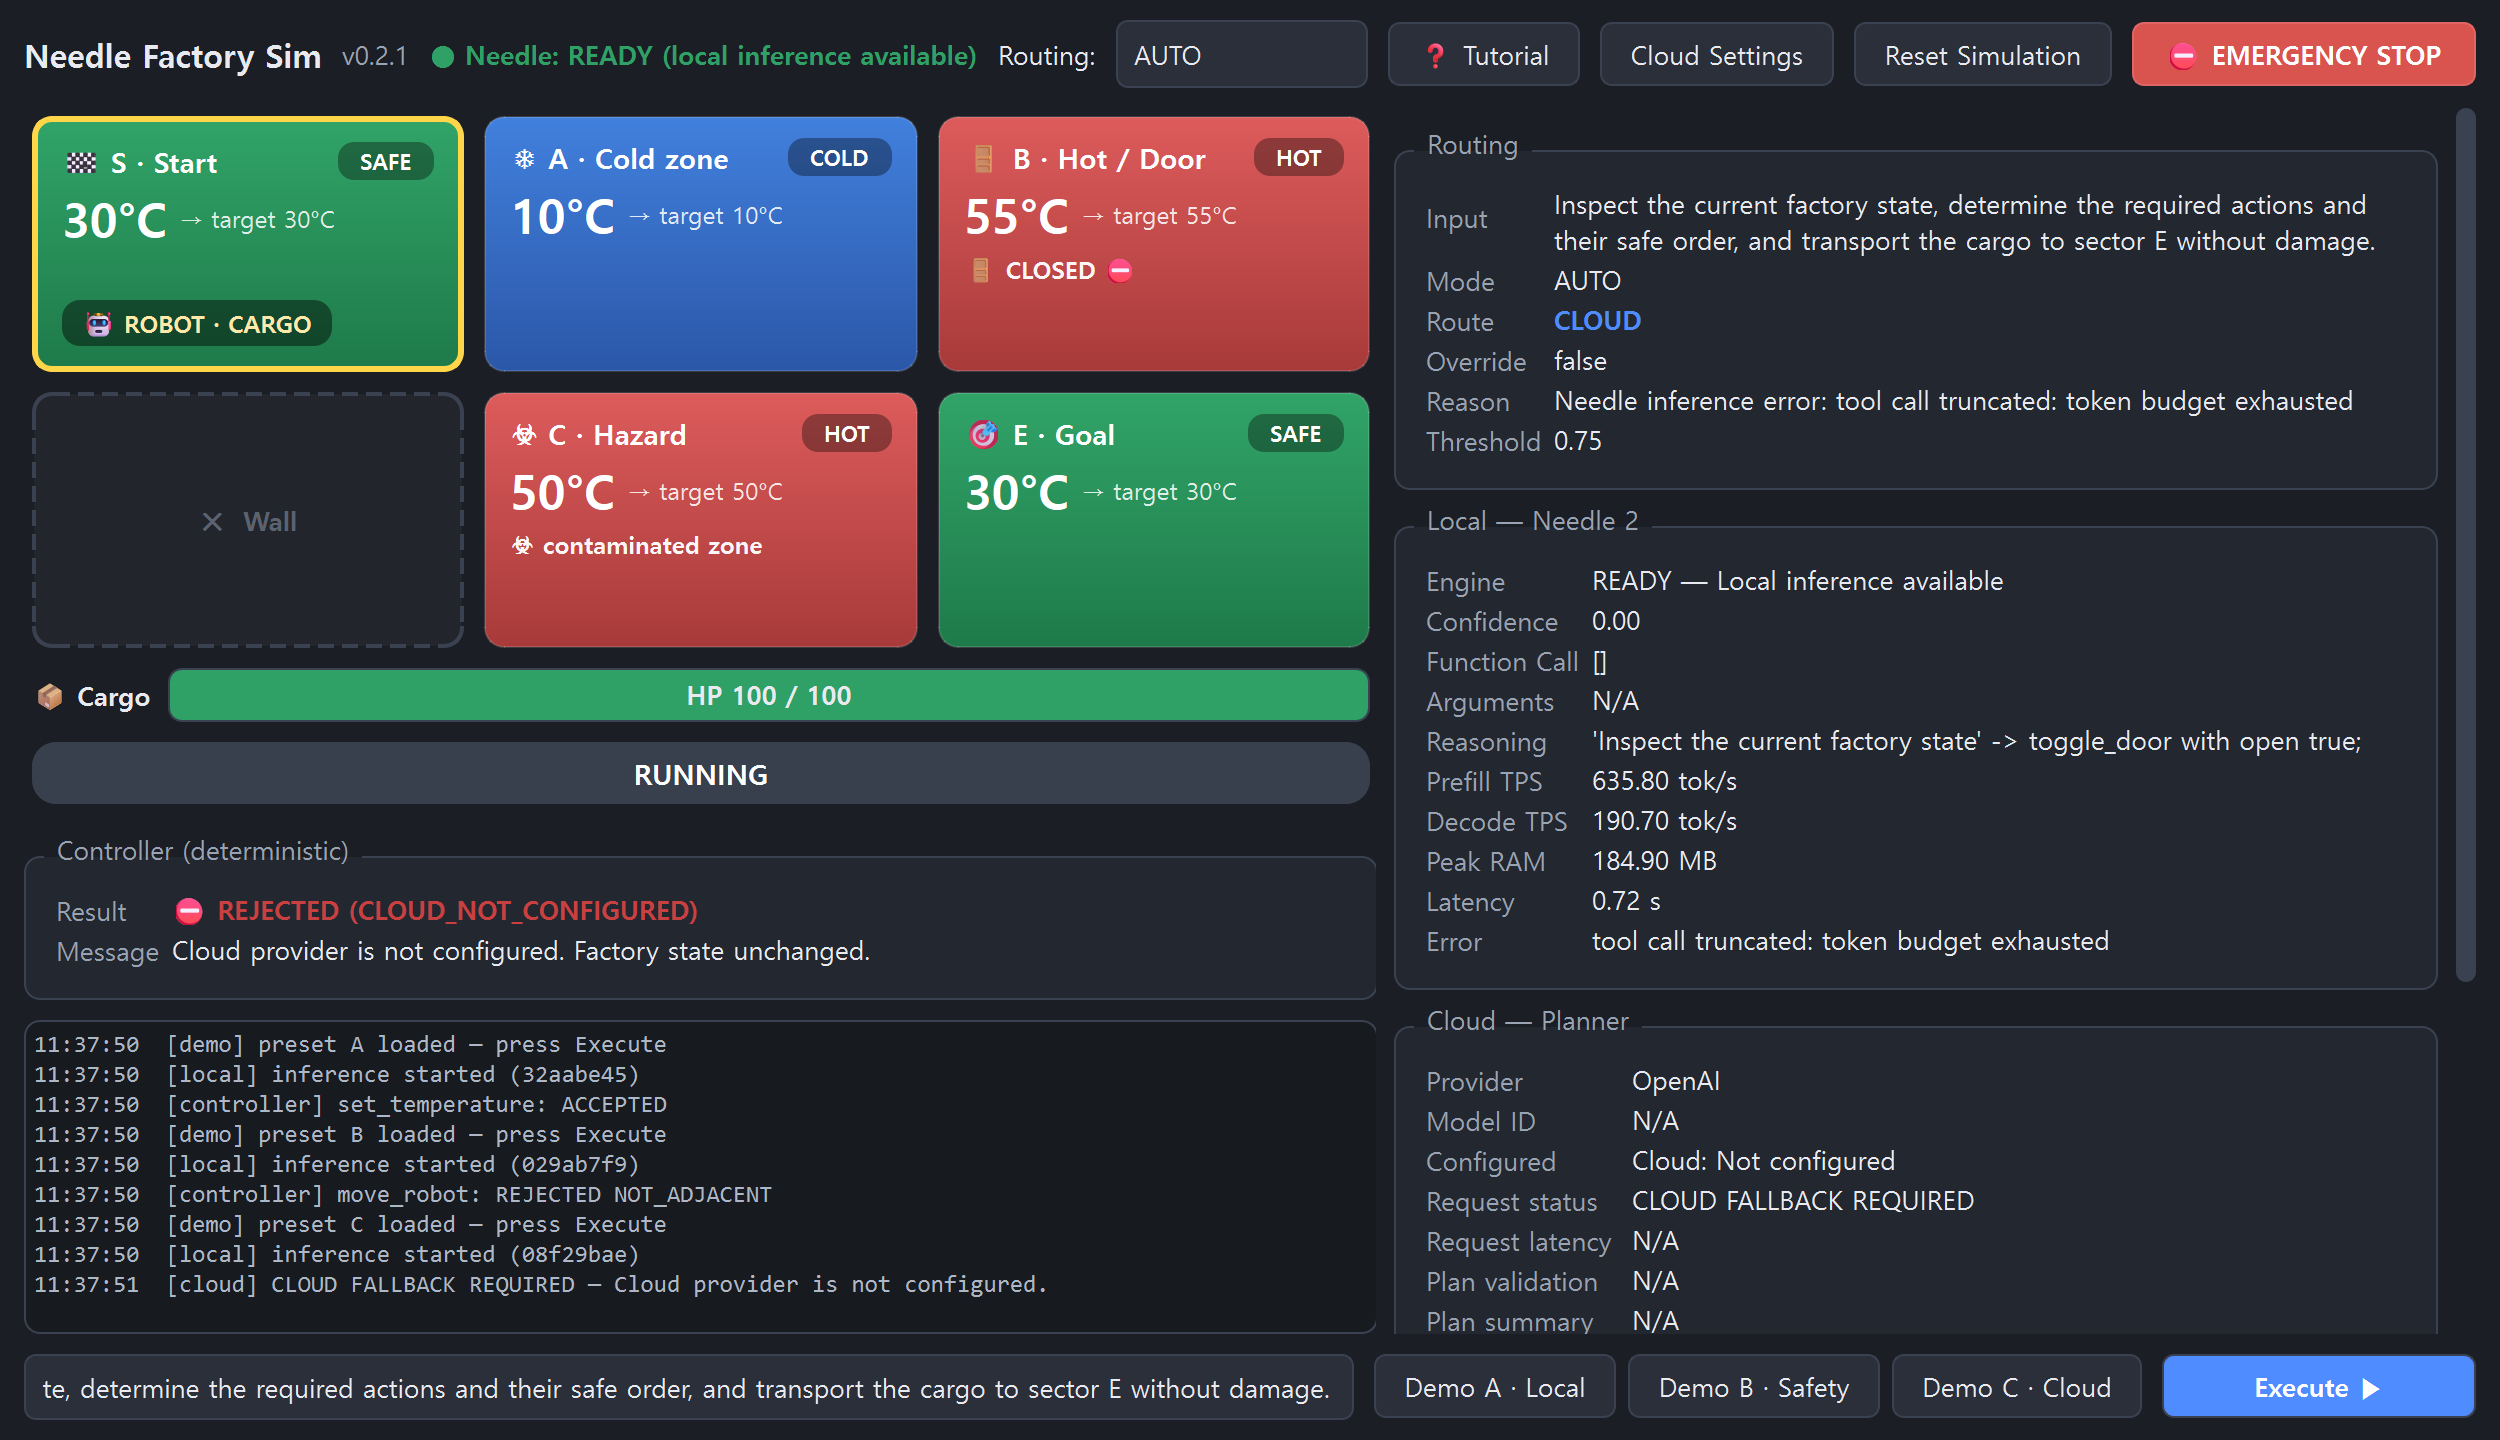
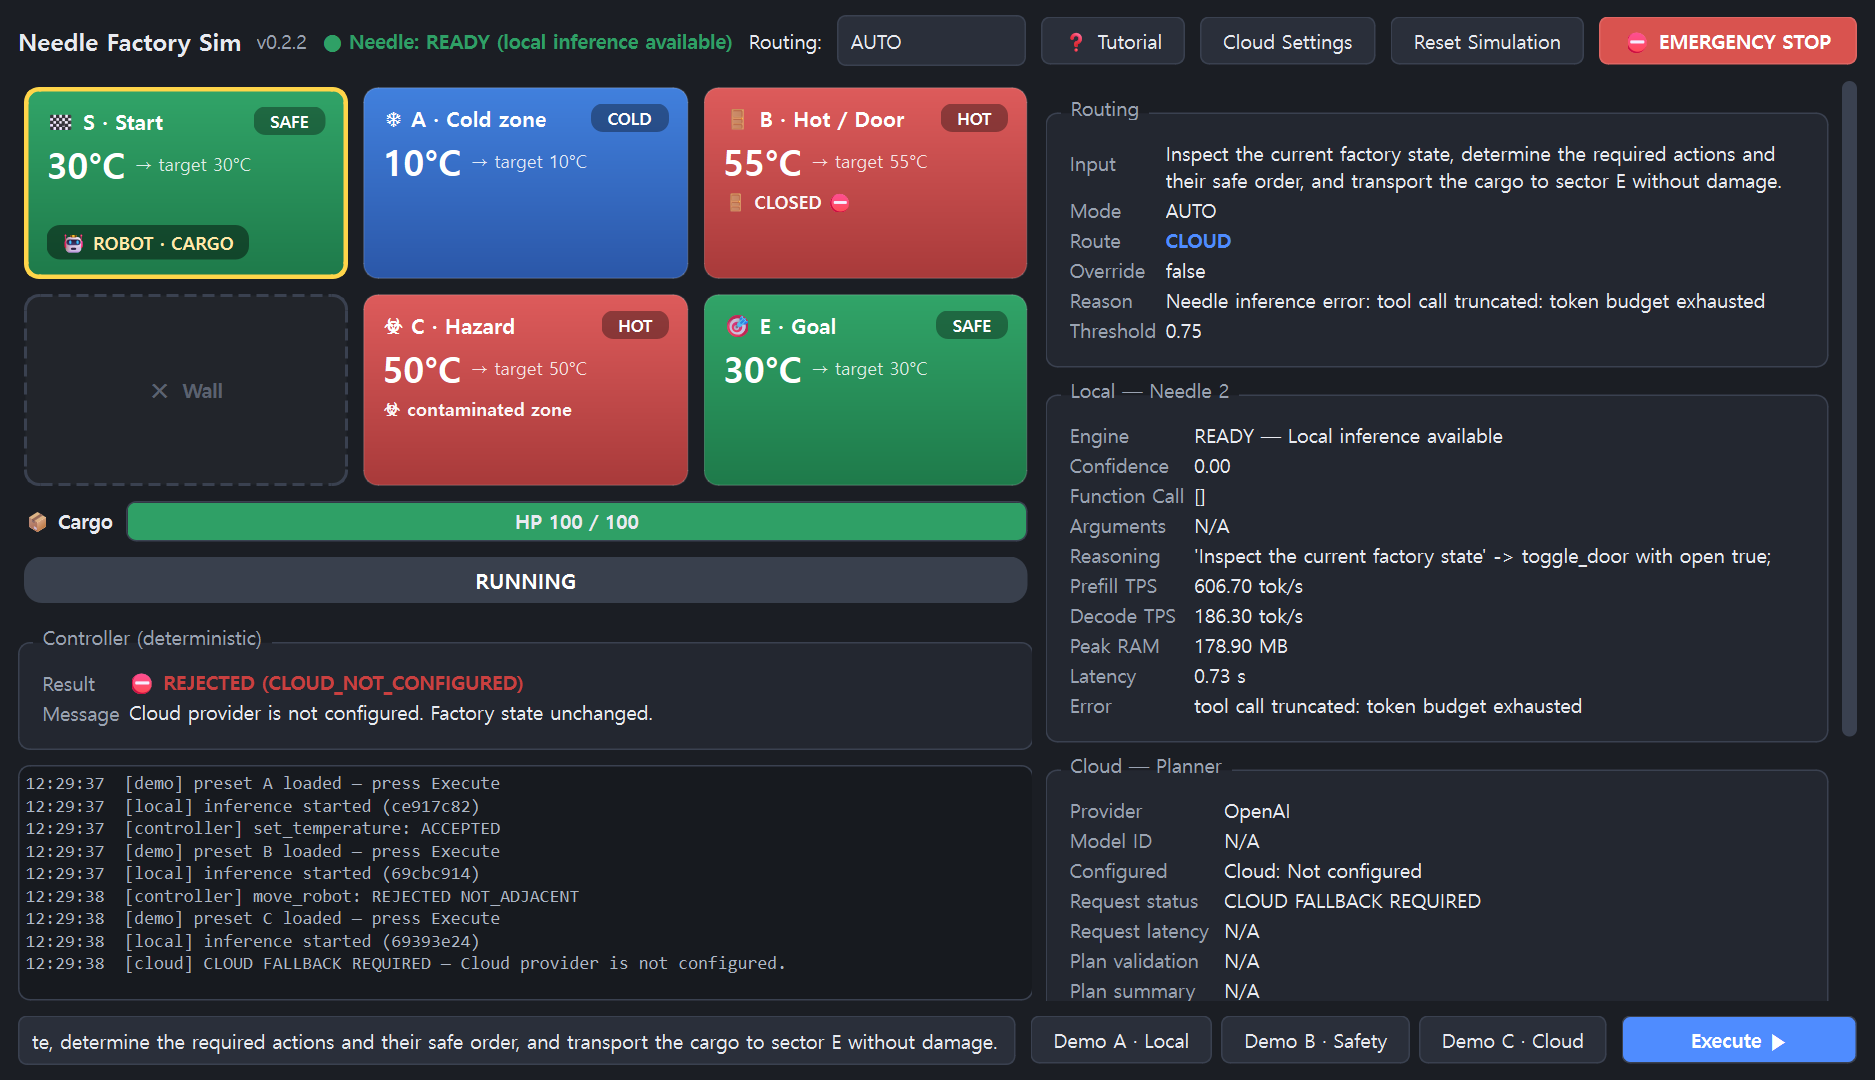
fix: two Gemini bugs found against a live API key
1. Test connection returned a bare UNKNOWN_ERROR. test_connection called the
   SDK off a temporary (`_client(...).models.get(...)`); genai.Client closes
   its HTTP transport when collected, and it was collected as soon as `.models`
   was read, so the request failed with "Cannot send a request, as the client
   has been closed" before being sent. The client is now held for the whole
   call in all three providers, with a regression test that reproduces the
   collection (verified to fail against the old code).

2. Planning reported PLAN_VALIDATION_FAILED and never fell back. google-genai
   converts a Pydantic response_schema into its own Schema type and rejects the
   `discriminator` key our tagged union emits, raising ValidationError before
   anything is sent. The adapter mistook that for a bad plan from the model.
   A schema the provider cannot take is now distinguished from a plan the model
   got wrong: the first routes to the prompt-schema request, only a real reply
   that fails validation is PLAN_VALIDATION_FAILED.

Measured live: gemini-2.5-flash produces the intended Demo C plan through the
prompt-schema path. Gemini's own response_json_schema mode was tried and is not
used - the API accepts it but does not enforce the union, returning steps that
carry another action's arguments. Some preview models (gemini-3.8-flash) are
currently answering 503/504 from Google; that is reported as SERVER_ERROR.
[…]

diff --git a/tests/test_cloud_providers.py b/tests/test_cloud_providers.py
@@ -323,3 +323,134 @@ def test_a_provider_whose_sdk_is_missing_reports_cleanly(monkeypatch):
     result = request_plan(CloudProvider.ANTHROPIC, FAKE_KEY, "m", context(), "req-x")
     assert result.plan is None
     assert result.error_category == "PROVIDER_UNAVAILABLE"
+
+
+# ----------------------------------------------- client lifetime regression
+
+
+class _Transport:
+    """Stands in for the SDK's shared HTTP transport."""
+
+    def __init__(self) -> None:
+        self.closed = False
+
+    def request(self):
+        if self.closed:
+            raise RuntimeError("Cannot send a request, as the client has been closed.")
+        return {"ok": True}
+
+
+class _Models:
+    """Mirrors the real SDKs: the sub-client holds the transport, not the client."""
+
+    def __init__(self, transport: _Transport) -> None:
+        self._transport = transport
+
+    def get(self, **kwargs):
+        return self._transport.request()
+
+    def retrieve(self, *args, **kwargs):
+        return self._transport.request()
+
+
+class _SelfClosingClient:
+    """Mimics genai.Client: closes its transport when garbage-collected.
+
+    Chaining off a temporary (`_client(...).models.get(...)`) let the client be
+    collected before the request was sent, which reached the user as a bare
+    UNKNOWN_ERROR on Test connection.
+    """
+
+    def __init__(self, **kwargs) -> None:
+        self._transport = _Transport()
+        self.models = _Models(self._transport)
+
+    def __del__(self) -> None:
+        self._transport.closed = True
+
+
+@pytest.mark.parametrize(
+    "provider, sdk_module, client_attr",
+    [
+        (CloudProvider.GEMINI, "google.genai", "Client"),
+        (CloudProvider.OPENAI, "openai", "OpenAI"),
+        (CloudProvider.ANTHROPIC, "anthropic", "Anthropic"),
+    ],
+)
+def test_test_connection_keeps_the_client_alive(monkeypatch, provider, sdk_module, client_attr):
+    import gc
+    import importlib
+
+    from needle_factory_sim.ai.cloud_planner import test_connection
+
+    module = importlib.import_module(sdk_module)
+
+    def make_client(**kwargs):
+        client = _SelfClosingClient(**kwargs)
+        # Force the collector to run while the adapter is mid-call: a dropped
+        # reference must not be what decides whether the request goes out.
+        gc.collect()
+        return client
+
+    monkeypatch.setattr(module, client_attr, make_client)
+    ok, message = test_connection(provider, "key-123", "some-model")
+    assert ok is True, message
+    assert "has been closed" not in message
+
+
+def test_gemini_schema_rejection_falls_back_instead_of_blaming_the_plan(monkeypatch):
+    """google-genai rejects our tagged-union schema before sending anything.
+
+    That is "this provider can't take the schema", not "the model returned a
+    bad plan" — reporting PLAN_VALIDATION_FAILED hid a working fallback.
+    """
+    from pydantic import BaseModel, ConfigDict, ValidationError as PydanticValidationError
+
+    class _Strict(BaseModel):
+        model_config = ConfigDict(extra="forbid")
+
+    def schema_conversion_error() -> Exception:
+        try:
+            _Strict.model_validate({"discriminator": {"propertyName": "action"}})
+        except PydanticValidationError as exc:
+            return exc
+        raise AssertionError("expected a ValidationError")
+
+    attempts: list[dict] = []
+
+    def generate(**kwargs):
+        attempts.append(kwargs)
+        if len(attempts) == 1:
+            raise schema_conversion_error()
+        return _GeminiResponse(parsed=None, text=json.dumps(VALID_PLAN_JSON))
+
+    install_fake_gemini(monkeypatch, generate=generate)
+    result = request_plan(CloudProvider.GEMINI, FAKE_KEY, "m", context(), "req-x")
+
+    assert result.error_category is None, result.error_message
+    assert result.plan is not None
+    assert result.used_json_fallback is True
+    assert len(attempts) == 2
+    assert attempts[1]["config"].response_schema is None
+
+
+def test_gemini_bad_plan_from_the_fallback_is_still_a_validation_failure(monkeypatch):
+    """The real thing PLAN_VALIDATION_FAILED is for must keep reporting it."""
+    bad = dict(VALID_PLAN_JSON)
+    bad["steps"] = [
+        {
+            "order": 1,
+            "action": "toggle_door",
+            # target_c belongs to set_temperature — exactly what Gemini emitted
+            # when its own json-schema mode failed to enforce the union.
+            "arguments": {"sector_id": "B", "open": True, "target_c": 30},
+            "reason": "r",
+        }
+    ]
+    install_fake_gemini(
+        monkeypatch,
+        generate=lambda **kw: _GeminiResponse(parsed=None, text=json.dumps(bad)),
+    )
+    result = request_plan(CloudProvider.GEMINI, FAKE_KEY, "m", context(), "req-x")
+    assert result.plan is None
+    assert result.error_category == "PLAN_VALIDATION_FAILED"

diff --git a/src/needle_factory_sim/ai/providers/gemini_provider.py b/src/needle_factory_sim/ai/providers/gemini_provider.py
@@ -30,6 +30,7 @@ def request_plan(
     from google.genai import errors, types
 
     client = _client(api_key, timeout_s)
+    response = None
     try:
         response = client.models.generate_content(
             model=model_id,
@@ -40,30 +41,31 @@ def request_plan(
                 response_schema=ExecutionPlan,
             ),
         )
+    except ValidationError:
+        # Raised while google-genai converts ExecutionPlan into its own Schema
+        # type, before anything is sent: it rejects the `discriminator` key our
+        # tagged union emits. Nothing reached the model, so this is "schema
+        # unsupported", not a bad plan — retry with the schema in the prompt.
+        # (Measured 2026-09-11 with google-genai 2.23: always rejected.)
+        pass
+    except errors.ClientError as exc:
+        # Only a 400 means "I don't accept this schema". Auth, quota and
+        # not-found failures must surface instead of burning a second request.
+        if getattr(exc, "code", None) != 400:
+            raise
+    except (TypeError, ValueError):
+        pass
+
+    if response is not None:
         plan = getattr(response, "parsed", None)
         if isinstance(plan, ExecutionPlan):
             return PlanAttempt(plan=plan)
         # Some models return the JSON text without a parsed object.
         if response.text:
-            return PlanAttempt(plan=ExecutionPlan.model_validate_json(response.text))
+            return PlanAttempt(plan=_validate(response.text))
         raise CloudPlannerError(
             "INVALID_STRUCTURED_RESPONSE", "Model returned no plan content"
         )
-    except CloudPlannerError:
-        raise
-    except ValidationError as verr:
-        raise CloudPlannerError(
-            "PLAN_VALIDATION_FAILED", f"Cloud response failed validation: {verr}"
-        ) from verr
-    except Exception as exc:
-        # Only a 400 means "I don't accept this schema" — retry with the schema
-        # in the prompt instead. An auth, quota or network failure must surface
-        # immediately rather than burn a second round trip.
-        schema_rejected = (
-            isinstance(exc, errors.ClientError) and getattr(exc, "code", None) == 400
-        )
-        if not (schema_rejected or isinstance(exc, (TypeError, ValueError))):
-            raise
 
     schema = json.dumps(ExecutionPlan.model_json_schema(), ensure_ascii=False)
     response = client.models.generate_content(
@@ -74,17 +76,26 @@ def request_plan(
             response_mime_type="application/json",
         ),
     )
+    return PlanAttempt(plan=_validate(response.text or ""), used_json_fallback=True)
+
+
+def _validate(text: str) -> ExecutionPlan:
+    """A failure here really is the model's plan being wrong, not our request."""
     try:
-        plan = ExecutionPlan.model_validate_json(response.text or "")
+        return ExecutionPlan.model_validate_json(text)
     except ValidationError as verr:
         raise CloudPlannerError(
             "PLAN_VALIDATION_FAILED", f"Cloud response failed validation: {verr}"
         ) from verr
-    return PlanAttempt(plan=plan, used_json_fallback=True)
 
 
 def test_connection(api_key: str, model_id: str, timeout_s: float) -> None:
-    _client(api_key, timeout_s).models.get(model=model_id)
+    # The client must stay referenced for the whole call: genai.Client closes
+    # its underlying httpx client when it is garbage-collected, so chaining off
+    # a temporary fails with "Cannot send a request, as the client has been
+    # closed" before the request is ever made.
+    client = _client(api_key, timeout_s)
+    client.models.get(model=model_id)
 
 
 def classify_error(exc: Exception) -> str:

diff --git a/src/needle_factory_sim/ai/providers/openai_provider.py b/src/needle_factory_sim/ai/providers/openai_provider.py
@@ -72,7 +72,10 @@ def request_plan(
 
 def test_connection(api_key: str, model_id: str, timeout_s: float) -> None:
     """Resolve the model to prove the key and model id work. Raises on failure."""
-    _client(api_key, timeout_s).models.retrieve(model_id)
+    # Keep the client referenced for the duration of the call (see the note in
+    # gemini_provider.test_connection).
+    client = _client(api_key, timeout_s)
+    client.models.retrieve(model_id)
 
 
 def classify_error(exc: Exception) -> str:

diff --git a/src/needle_factory_sim/ai/providers/anthropic_provider.py b/src/needle_factory_sim/ai/providers/anthropic_provider.py
@@ -87,7 +87,10 @@ def _strip_code_fence(text: str) -> str:
 
 
 def test_connection(api_key: str, model_id: str, timeout_s: float) -> None:
-    _client(api_key, timeout_s).models.retrieve(model_id)
+    # Keep the client referenced for the duration of the call (see the note in
+    # gemini_provider.test_connection).
+    client = _client(api_key, timeout_s)
+    client.models.retrieve(model_id)
 
 
 def classify_error(exc: Exception) -> str:

diff --git a/src/needle_factory_sim/__init__.py b/src/needle_factory_sim/__init__.py
@@ -1,3 +1,3 @@
 """Needle Factory Sim — Edge AI hybrid control PoC."""
 
-__version__ = "0.2.1"
+__version__ = "0.2.2"

diff --git a/docs/RELEASE_NOTES_v0.2.2.md b/docs/RELEASE_NOTES_v0.2.2.md
@@ -1,0 +1,58 @@
+# Needle Factory Sim v0.2.2
+
+Fixes two bugs in the Gemini provider, both found while testing against a live
+Google API key. Gemini planning now works end to end.
+
+## Test connection returned a bare UNKNOWN_ERROR
+
+`test_connection` called the SDK off a temporary:
+
+```python
+_client(api_key, timeout_s).models.get(model=model_id)
+```
+
+`genai.Client` closes its underlying HTTP transport when it is garbage
+collected, and the client here was collected the moment its `models` attribute
+was read — so the request failed with `Cannot send a request, as the client has
+been closed` before it was ever sent, which the classifier could only report as
+`UNKNOWN_ERROR`. The client is now held for the whole call, in all three
+providers. A regression test reproduces the collection (and was checked to fail
+against the old code).
+
+## Gemini planning reported PLAN_VALIDATION_FAILED and never fell back
+
+google-genai converts a Pydantic `response_schema` into its own `Schema` type,
+which rejects the `discriminator` key our tagged union emits. That raised a
+`ValidationError` **before anything was sent**, and the adapter mistook it for
+"the model returned a bad plan": it reported `PLAN_VALIDATION_FAILED` and
+skipped the fallback that would have worked.
+
+A schema the provider cannot take is now distinguished from a plan the model
+got wrong. The first routes to the prompt-schema request; only a real reply
+that fails validation is reported as `PLAN_VALIDATION_FAILED`.
+
+Gemini therefore always shows "(JSON fallback)" in the monitor — expected for
+this provider, not a fault. Its alternative `response_json_schema` mode was
+measured too: the API accepts it but does not enforce the union, returning
+steps carrying another action's arguments, so it is not used.
+
+## Verified live
+
+With a real key, `gemini-2.5-flash` produced exactly the intended Demo C plan:
+
+```text
+1. set_temperature(A, 30)   2. set_temperature(B, 30)   3. wait(2)
+4. toggle_door(B, open)     5. move_robot(A)            6. move_robot(B)
+7. move_robot(E)
+```
+
+Note: some newer preview models (e.g. `gemini-3.8-flash`) are heavily loaded and
+answer `503 high demand` or `504 deadline exceeded`. That is the provider, not
+the app — the monitor reports `SERVER_ERROR` and the command can be run again.
+The app does not retry on its own, so an abandoned request stays bounded by the
+20 s timeout.
+
+## Tests
+
+129 (was 124), including the client-lifetime regression for all three providers
+and both sides of the Gemini schema/plan distinction.

diff --git a/README.md b/README.md
@@ -238,7 +238,7 @@ the spike to keep these properties.
 uv run pytest
 ```
 
-124 tests, run on Ubuntu and Windows by
+129 tests, run on Ubuntu and Windows by
 [CI](.github/workflows/tests.yml) on every push. They cover:
 
 - **Controller rules** — adjacency, unsafe temperature, doors,
@@ -281,9 +281,18 @@ real model separately: `scripts/needle_spike.py` (demo prompt routing),
   a failed step skips the remainder and reports honestly.
 - An abandoned cloud request (after Reset or Emergency Stop) cannot be cancelled
   mid-flight, so a following request queues behind it for up to the 20 s timeout.
-- No provider's structured-output path has been exercised against a live API.
-  If one rejects the strict plan schema, that provider's JSON fallback handles
-  the request and the monitor says so — costing one extra round trip.
+- **Gemini always uses the JSON fallback** (the monitor says so, which is
+  expected, not a fault): google-genai converts a Pydantic model into its own
+  `Schema` type and rejects the `discriminator` key our tagged union emits, so
+  the schema travels in the prompt instead and the reply is validated strictly.
+  Its own `response_json_schema` mode was tried and rejected — the API accepts
+  it but does not enforce the union, returning steps with another action's
+  arguments. OpenAI's and Anthropic's structured-output paths have not been
+  exercised against a live API yet.
+- Verified live against Gemini: `gemini-2.5-flash` plans Demo C correctly.
+  Newer preview models can be heavily loaded and answer `503 high demand` or
+  `504 deadline exceeded`; the monitor reports that as `SERVER_ERROR` and the
+  command can simply be run again.
 - Model IDs are always user-supplied — nothing is hardcoded for any provider.
 
 ## License
@@ -303,3 +312,4 @@ real model separately: `scripts/needle_spike.py` (demo prompt routing),
 | [`v0.1.6`](https://github.com/sinbumu/needle-factory-sim/releases/tag/v0.1.6) | A plan that reaches the goal finishes as SUCCEEDED; 105 tests |
 | `v0.2.0` | Multi-provider cloud planner — **superseded by v0.2.1** (its installer was broken) |
 | [`v0.2.1`](https://github.com/sinbumu/needle-factory-sim/releases/tag/v0.2.1) | Fixes the packaged build dropping the provider adapters; 124 tests |
+| [`v0.2.2`](https://github.com/sinbumu/needle-factory-sim/releases/tag/v0.2.2) | Gemini fixes (client lifetime, schema fallback), verified live; 129 tests |
